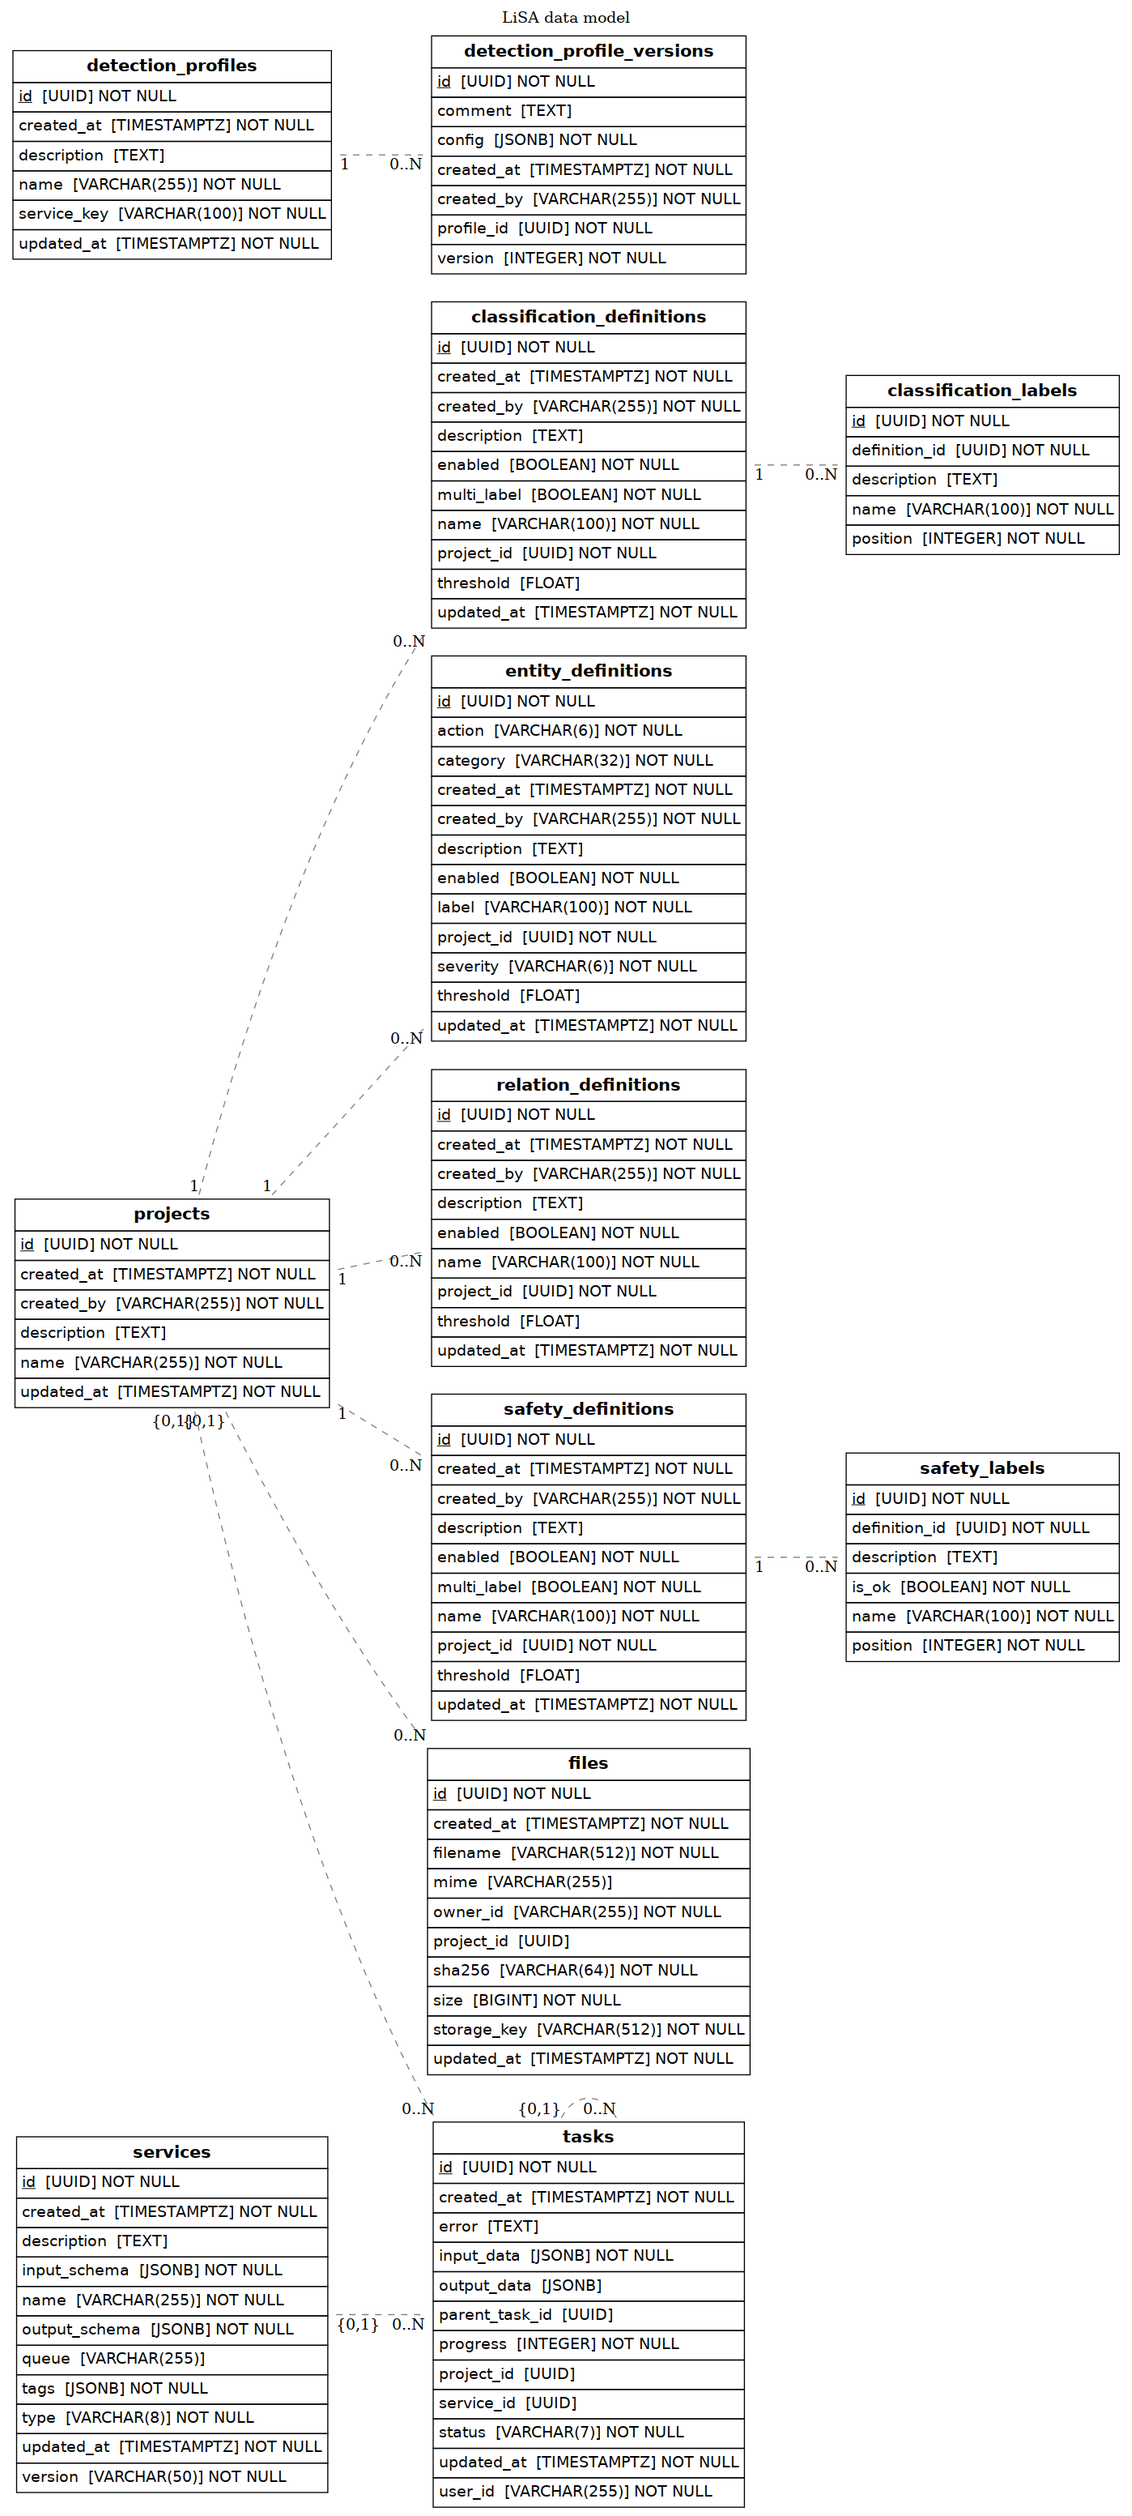
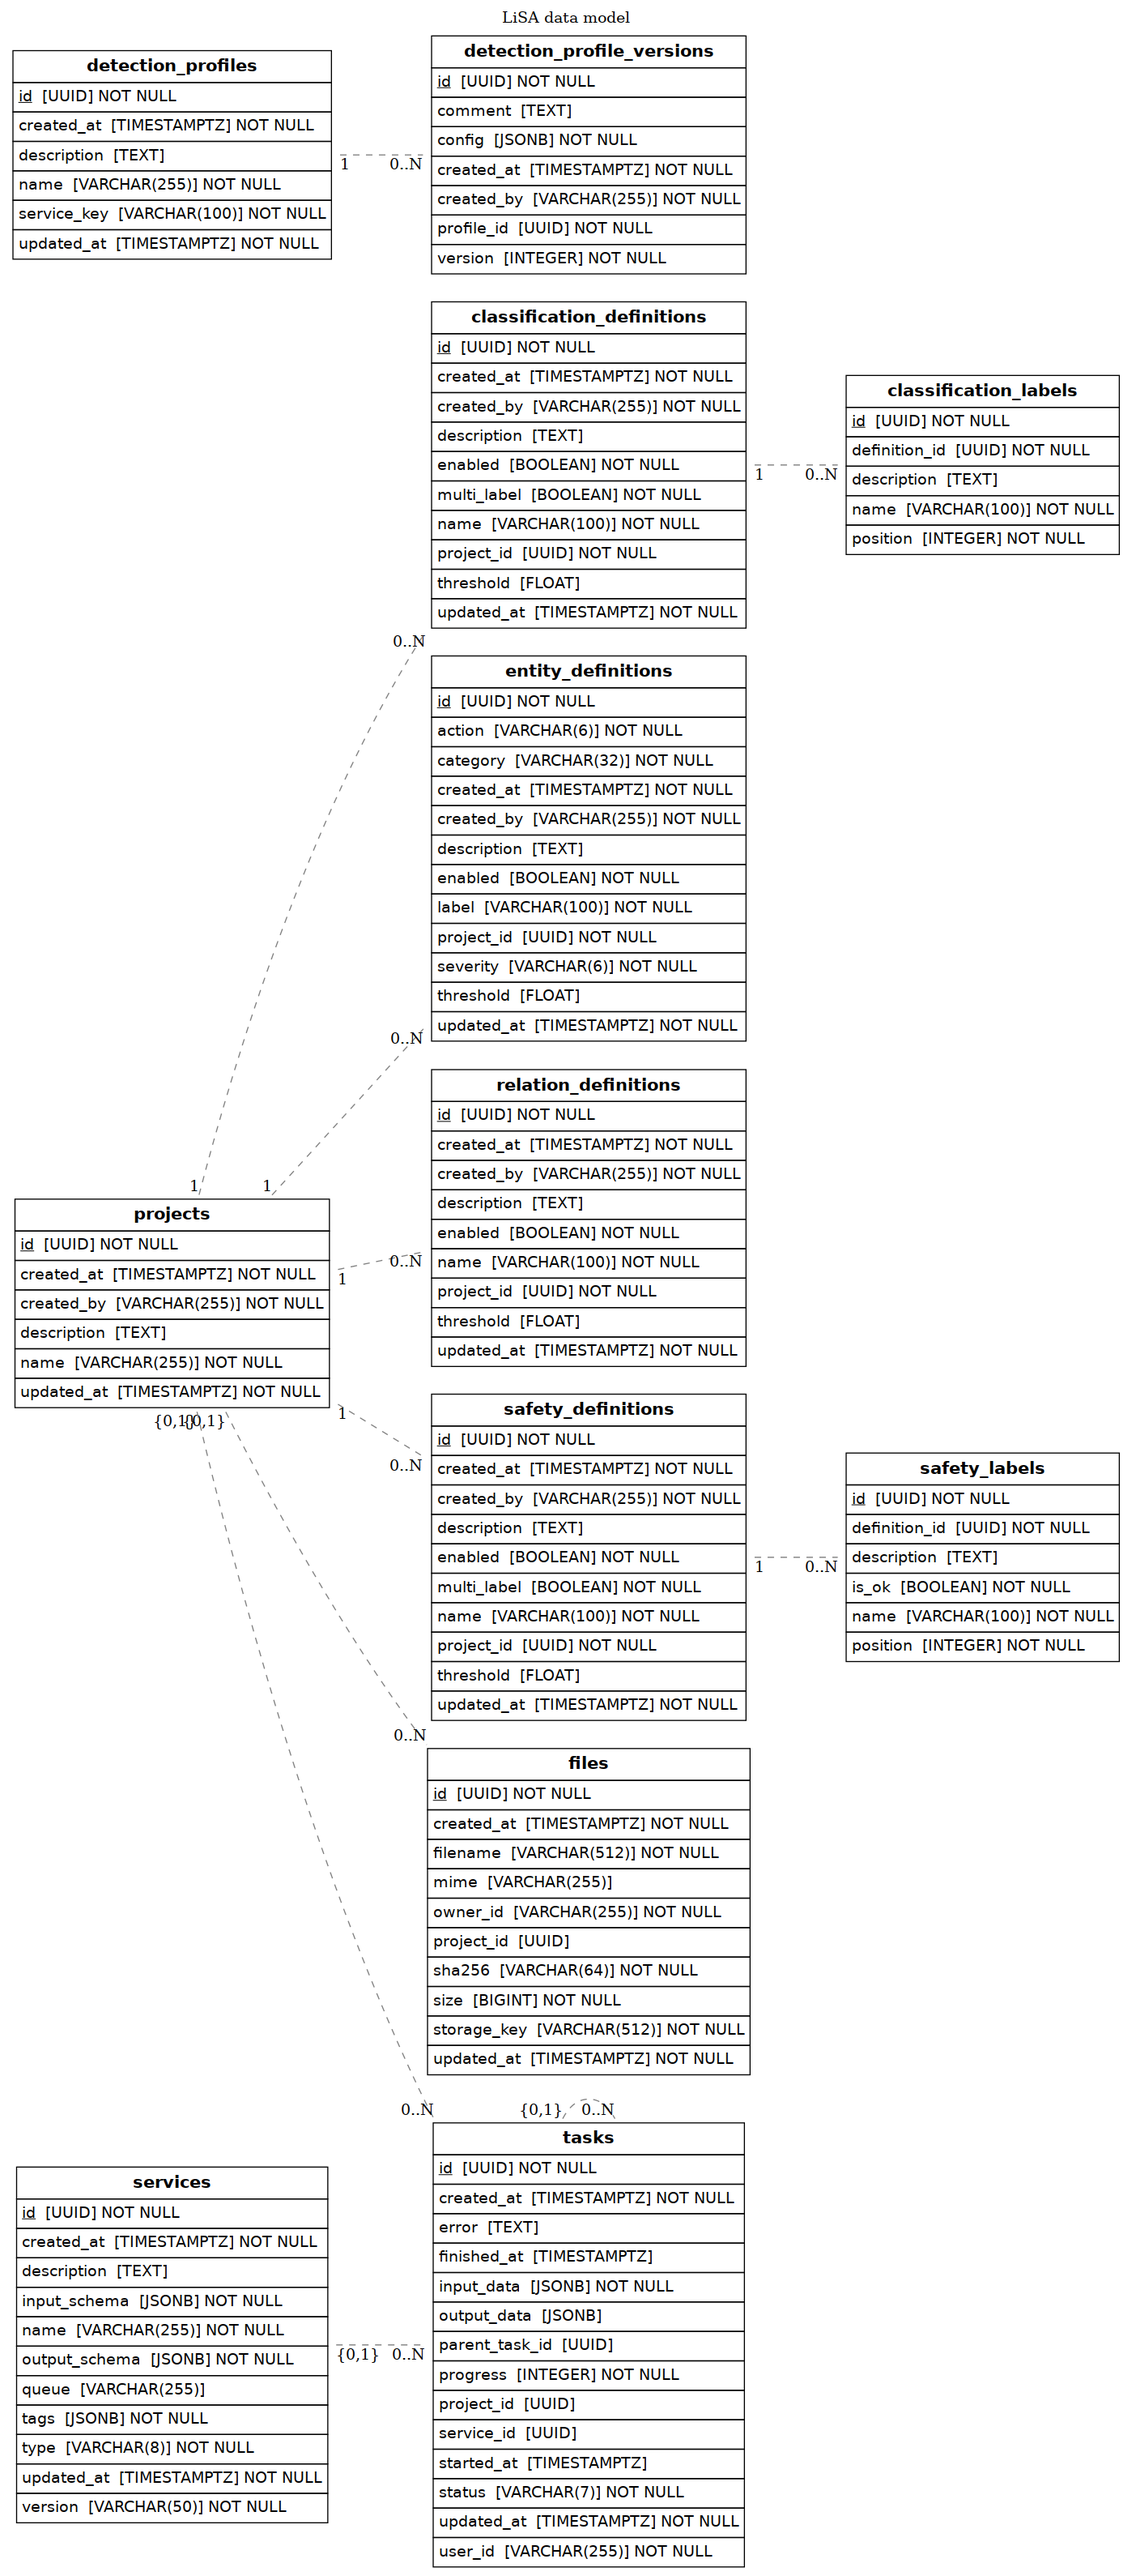
feat(backend): record when a task started and finished
Tasks get started_at and finished_at (migration 0006) and the API a
duration_seconds: the compute time, without the wait in the queue. A run lasts
from its first worker's start to its last one's end. Data model diagram
regenerated.

diff --git a/backend/tests/test_timing.py b/backend/tests/test_timing.py
@@ -1,0 +1,175 @@
+"""Compute time: when a task started and ended, and the run as a whole."""
+
+from datetime import UTC, datetime, timedelta
+
+import pytest
+from httpx import AsyncClient
+
+T = "/api/v1/tasks"
+BASE = datetime(2026, 1, 1, 12, 0, 0, tzinfo=UTC)
+
+
+@pytest.fixture
+def clock(monkeypatch):
+    """Freeze the clock the task service stamps with: ``clock(12.5)`` = 12.5 s in."""
+    now = {"t": BASE}
+    monkeypatch.setattr("app.services.task._now", lambda: now["t"])
+
+    def at(seconds: float) -> None:
+        now["t"] = BASE + timedelta(seconds=seconds)
+
+    return at
+
+
+async def _task(client, headers, **extra):
+    resp = await client.post(
+        T, json={"user_id": "u", "input_data": {}, **extra}, headers=headers
+    )
+    assert resp.status_code == 201, resp.text
+    return resp.json()
+
+
+async def _patch(client, headers, task_id, **body):
+    resp = await client.patch(f"{T}/{task_id}", json=body, headers=headers)
+    assert resp.status_code == 200, resp.text
+    return resp.json()
+
+
+async def test_the_compute_time_runs_from_running_to_the_end(
+    client: AsyncClient, admin_headers, clock
+):
+    task = await _task(client, admin_headers)
+    assert task["started_at"] is None and task["duration_seconds"] is None
+    clock(2)
+    running = await _patch(client, admin_headers, task["id"], status="running")
+    assert running["started_at"] is not None and running["duration_seconds"] is None
+    clock(14.5)
+    done = await _patch(
+        client, admin_headers, task["id"], status="success", progress=100
+    )
+    assert done["duration_seconds"] == pytest.approx(12.5)
+    got = (await client.get(f"{T}/{task['id']}", headers=admin_headers)).json()
+    assert got["duration_seconds"] == pytest.approx(12.5)
+
+
+async def test_the_start_is_not_moved_by_later_updates(client, admin_headers, clock):
+    task = await _task(client, admin_headers)
+    clock(1)
+    await _patch(client, admin_headers, task["id"], status="running")
+    clock(5)
+    await _patch(client, admin_headers, task["id"], progress=50)  # progress report
+    await _patch(client, admin_headers, task["id"], status="running")
+    clock(11)
+    done = await _patch(client, admin_headers, task["id"], status="success")
+    assert done["duration_seconds"] == pytest.approx(10)
+
+
+async def test_the_wait_in_the_queue_is_not_compute_time(client, admin_headers, clock):
+    task = await _task(client, admin_headers)  # created at t=0, waits 30 s
+    clock(30)
+    await _patch(client, admin_headers, task["id"], status="running")
+    clock(33)
+    done = await _patch(client, admin_headers, task["id"], status="success")
+    assert done["duration_seconds"] == pytest.approx(3)
+
+
+async def test_an_error_ends_the_time_too(client, admin_headers, clock):
+    task = await _task(client, admin_headers)
+    clock(1)
+    await _patch(client, admin_headers, task["id"], status="running")
+    clock(4)
+    failed = await _patch(
+        client, admin_headers, task["id"], status="error", error="boom"
+    )
+    assert failed["duration_seconds"] == pytest.approx(3)
+
+
+async def test_a_task_that_never_ran_has_no_duration(client, admin_headers, clock):
+    task = await _task(client, admin_headers)
+    clock(5)
+    done = await _patch(client, admin_headers, task["id"], status="success")
+    assert done["finished_at"] is not None and done["started_at"] is None
+    assert done["duration_seconds"] is None
+
+
+async def test_revoking_ends_the_time(client, admin_headers, clock):
+    task = await _task(client, admin_headers)
+    clock(1)
+    await _patch(client, admin_headers, task["id"], status="running")
+    clock(6)
+    resp = await client.post(f"{T}/{task['id']}/revoke", headers=admin_headers)
+    assert resp.json()["duration_seconds"] == pytest.approx(5)
+
+
+async def test_a_retry_starts_the_clock_again(
+    client, admin_headers, clock, monkeypatch
+):
+    monkeypatch.setattr("app.services.task.dispatch_task", lambda *a, **k: None)
+    task = await _task(client, admin_headers)
+    clock(1)
+    await _patch(client, admin_headers, task["id"], status="running")
+    clock(3)
+    await _patch(client, admin_headers, task["id"], status="error", error="x")
+    retried = (
+        await client.post(f"{T}/{task['id']}/retry", headers=admin_headers)
+    ).json()
+    assert retried["started_at"] is None and retried["finished_at"] is None
+    clock(10)
+    await _patch(client, admin_headers, task["id"], status="running")
+    clock(17)
+    done = await _patch(client, admin_headers, task["id"], status="success")
+    assert done["duration_seconds"] == pytest.approx(7)
+
+
+async def test_a_run_lasts_from_its_first_worker_to_its_last(
+    client, admin_headers, clock
+):
+    parent = await _task(client, admin_headers)
+    kids = [
+        await _task(client, admin_headers, parent_task_id=parent["id"])
+        for _ in range(2)
+    ]
+    clock(2)
+    await _patch(client, admin_headers, kids[0]["id"], status="running")
+    clock(3)
+    await _patch(client, admin_headers, kids[1]["id"], status="running")
+    clock(6)
+    await _patch(client, admin_headers, kids[0]["id"], status="success", progress=100)
+    mid = (await client.get(f"{T}/{parent['id']}", headers=admin_headers)).json()
+    assert mid["started_at"] is not None
+    assert mid["finished_at"] is None and mid["duration_seconds"] is None  # still going
+    clock(9)
+    await _patch(client, admin_headers, kids[1]["id"], status="success", progress=100)
+    done = (await client.get(f"{T}/{parent['id']}", headers=admin_headers)).json()
+    assert done["status"] == "success"
+    assert done["duration_seconds"] == pytest.approx(7)  # 2 -> 9
+
+
+async def test_a_waiting_task_that_fails_with_the_run_has_no_duration(
+    client, admin_headers, clock, monkeypatch
+):
+    """Workers released by a parser that failed never ran: no time to report."""
+    for name in ("liteparse-ocr", "ner"):
+        await client.post(
+            "/api/v1/services",
+            json={"name": name, "queue": name, "type": "analyser"},
+            headers=admin_headers,
+        )
+    monkeypatch.setattr("app.services.task.dispatch_task", lambda *a, **k: None)
+    parent = await _task(client, admin_headers)
+    parser = await _task(client, admin_headers, parent_task_id=parent["id"])
+    waiter = await _task(
+        client,
+        admin_headers,
+        parent_task_id=parent["id"],
+        input_data={"awaiting": parser["id"]},
+    )
+    clock(1)
+    await _patch(client, admin_headers, parser["id"], status="running")
+    clock(2)
+    await _patch(client, admin_headers, parser["id"], status="error", error="bad pdf")
+    waiter = (await client.get(f"{T}/{waiter['id']}", headers=admin_headers)).json()
+    assert waiter["status"] == "error"
+    assert waiter["duration_seconds"] is None
+    parent = (await client.get(f"{T}/{parent['id']}", headers=admin_headers)).json()
+    assert parent["duration_seconds"] == pytest.approx(1)

diff --git a/backend/app/services/task.py b/backend/app/services/task.py
@@ -1,5 +1,6 @@
 from __future__ import annotations
 
+from datetime import UTC, datetime
 from typing import Any
 from uuid import UUID
 
@@ -17,6 +18,18 @@ from app.services.privacy import mask_text_fields
 
 # Statuses from which a task can no longer transition.
 TERMINAL_STATUSES = {TaskStatus.SUCCESS, TaskStatus.ERROR, TaskStatus.REVOKED}
+
+
+def _now() -> datetime:
+    return datetime.now(UTC)
+
+
+def _stamp(task: Task, now: datetime) -> None:
+    """Record when the task started (first running) and when it ended."""
+    if task.status == TaskStatus.RUNNING and task.started_at is None:
+        task.started_at = now
+    if task.status in TERMINAL_STATUSES and task.finished_at is None:
+        task.finished_at = now
 
 
 class TaskService:
@@ -136,6 +149,7 @@ class TaskService:
                     changes[field] = mask_text_fields(changes[field])
         for field, value in changes.items():
             setattr(task, field, value)
+        _stamp(task, _now())
         await self.session.commit()
         await self.session.refresh(task)
         if task.status in TERMINAL_STATUSES:
@@ -217,9 +231,24 @@ class TaskService:
         else:
             status = TaskStatus.PENDING
 
-        if parent.status != status or parent.progress != progress:
+        # The run's time: from the first worker's start to the last one's end.
+        started = min((c.started_at for c in children if c.started_at), default=None)
+        finished = (
+            max((c.finished_at for c in children if c.finished_at), default=None)
+            if all_terminal
+            else None
+        )
+
+        if (
+            parent.status != status
+            or parent.progress != progress
+            or parent.started_at != started
+            or parent.finished_at != finished
+        ):
             parent.status = status
             parent.progress = progress
+            parent.started_at = started
+            parent.finished_at = finished
             await self.session.commit()
             await self.session.refresh(parent)
 
@@ -230,6 +259,7 @@ class TaskService:
                 f"Cannot revoke a task in state '{task.status.value}'."
             )
         task.status = TaskStatus.REVOKED
+        _stamp(task, _now())
         await self.session.commit()
         await self.session.refresh(task)
         return task
@@ -250,6 +280,7 @@ class TaskService:
         task.progress = 0
         task.error = None
         task.output_data = None
+        task.started_at = task.finished_at = None
         await self.session.commit()
         await self.session.refresh(task)
         await self.dispatch(task)

diff --git a/backend/app/models/task.py b/backend/app/models/task.py
@@ -1,6 +1,7 @@
 import uuid
+from datetime import datetime
 
-from sqlalchemy import JSON, ForeignKey, Integer, String, Text, Uuid
+from sqlalchemy import JSON, DateTime, ForeignKey, Integer, String, Text, Uuid
 from sqlalchemy import Enum as SAEnum
 from sqlalchemy.dialects.postgresql import JSONB
 from sqlalchemy.orm import Mapped, mapped_column, relationship
@@ -49,6 +50,15 @@ class Task(Base, TimestampMixin):
         index=True,
     )
     progress: Mapped[int] = mapped_column(Integer, nullable=False, default=0)
+    # When the worker began, and when the task ended: the difference is the
+    # compute time (the wait in the queue is not in it). For a run (parent
+    # task): from the first worker's start to the last one's end.
+    started_at: Mapped[datetime | None] = mapped_column(
+        DateTime(timezone=True), nullable=True
+    )
+    finished_at: Mapped[datetime | None] = mapped_column(
+        DateTime(timezone=True), nullable=True
+    )
     input_data: Mapped[dict] = mapped_column(JSONType, nullable=False, default=dict)
     output_data: Mapped[dict | None] = mapped_column(JSONType, nullable=True)
     error: Mapped[str | None] = mapped_column(Text, nullable=True)

diff --git a/backend/app/schemas/task.py b/backend/app/schemas/task.py
@@ -1,7 +1,7 @@
 from datetime import datetime
 from uuid import UUID
 
-from pydantic import BaseModel, ConfigDict, Field
+from pydantic import BaseModel, ConfigDict, Field, computed_field
 
 from app.models.enums import TaskStatus
 
@@ -42,6 +42,16 @@ class TaskRead(BaseModel):
     error: str | None
     created_at: datetime
     updated_at: datetime
+    started_at: datetime | None = None
+    finished_at: datetime | None = None
+
+    @computed_field  # type: ignore[prop-decorator]
+    @property
+    def duration_seconds(self) -> float | None:
+        """Compute time, once the task has started and ended."""
+        if self.started_at is None or self.finished_at is None:
+            return None
+        return max(0.0, (self.finished_at - self.started_at).total_seconds())
 
 
 class TaskStatusRead(BaseModel):

diff --git a/backend/migrations/versions/0006_task_timing.py b/backend/migrations/versions/0006_task_timing.py
@@ -1,0 +1,27 @@
+"""when a task started and finished, to show its compute time
+
+Revision ID: 0006
+Revises: 0005
+"""
+
+import sqlalchemy as sa
+from alembic import op
+
+revision = "0006"
+down_revision = "0005"
+branch_labels = None
+depends_on = None
+
+
+def upgrade() -> None:
+    op.add_column(
+        "tasks", sa.Column("started_at", sa.DateTime(timezone=True), nullable=True)
+    )
+    op.add_column(
+        "tasks", sa.Column("finished_at", sa.DateTime(timezone=True), nullable=True)
+    )
+
+
+def downgrade() -> None:
+    op.drop_column("tasks", "finished_at")
+    op.drop_column("tasks", "started_at")
